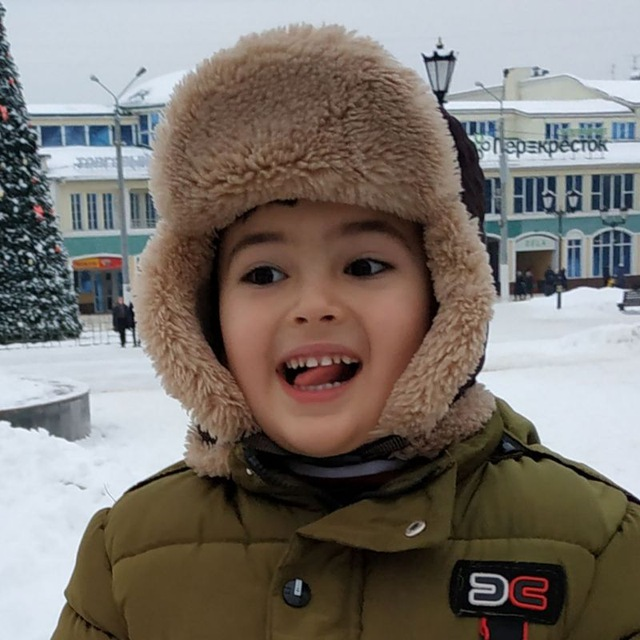
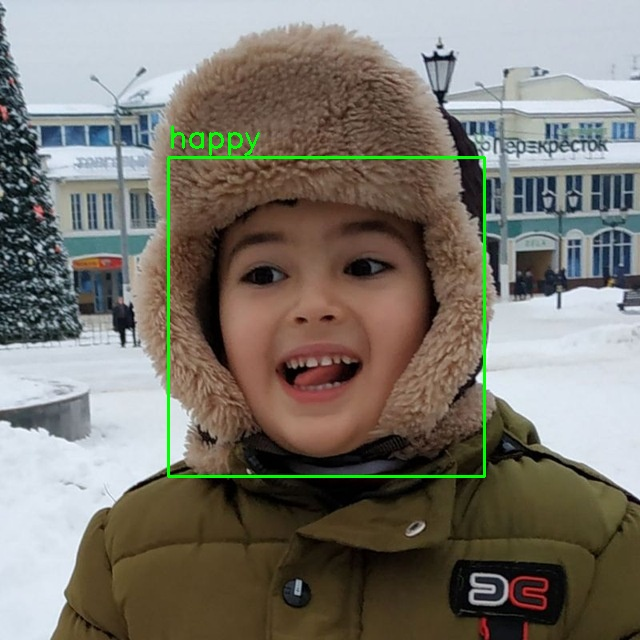
three commit

Changed region(s): [[0.25, 0.1875, 0.7812, 0.75]]

diff --git a/README.md b/README.md
@@ -67,12 +67,10 @@ All dependencies can be installed via `requirements.txt`.
 
 ```
 emotion-recognition/
-├── train.py               # Training script
+├── emotion-detection_train_model.ipynb  # Training script
 ├── detect_emotion.py      # Real-time emotion detection
-├── model.pth              # Trained model (optional, add download link)
+├── models              # Trained models (optional, add download link)
 ├── requirements.txt
-├── utils/
-│   └── preprocessing.py   # Helper functions (if used)
 ├── examples/
 │   └── demo.jpg           # Sample image showing detection
 └── README.md
